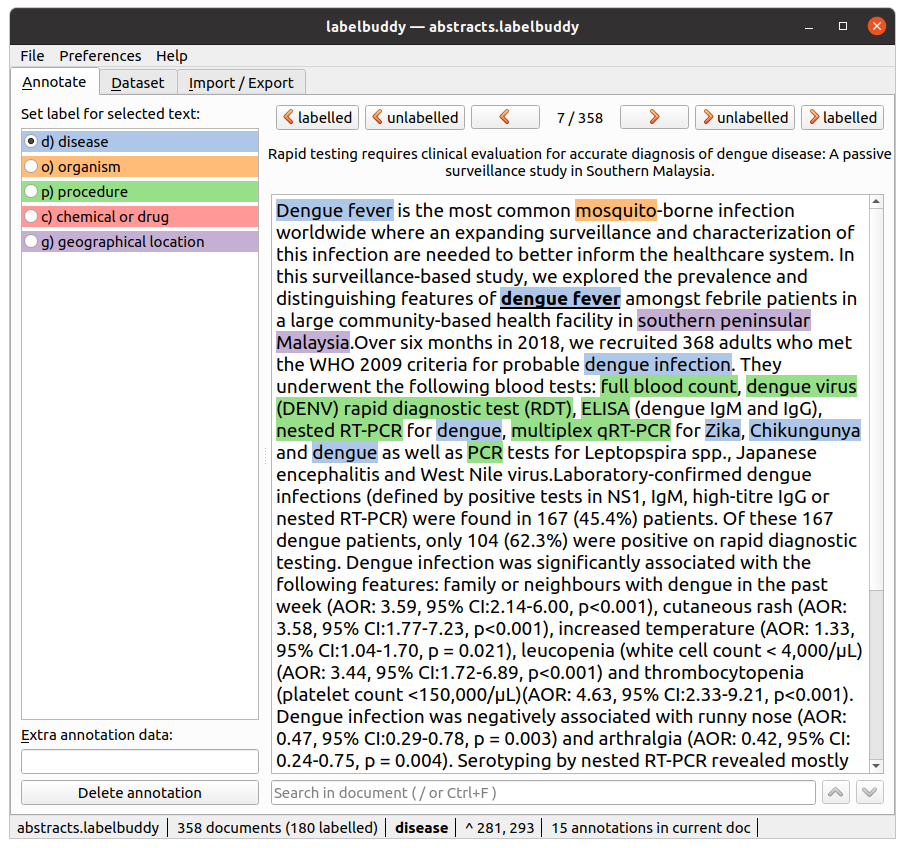
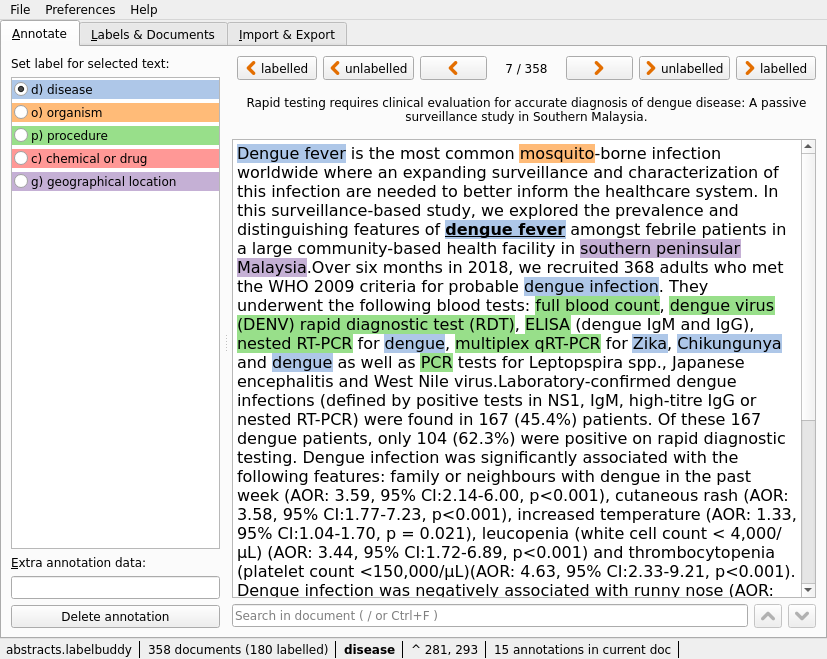
rename tabs: Dataset → Labels & Documents; Import / Export → Import & Export

diff --git a/docs/documentation.html b/docs/documentation.html
@@ -743,7 +743,7 @@ Importing and exporting data
 </table>
 </div>
 <div class="paragraph">
-<p>The labelbuddy interface is organized around three tabs: the <strong>&#8220;Import / Export&#8221;</strong> tab for importing and exporting labels, documents and annotations, the <strong>&#8220;Dataset&#8221;</strong> tab to get an overview and manage documents and labels in the database, and the <strong>&#8220;Annotate&#8221;</strong> tab is where annotations are edited.</p>
+<p>The labelbuddy interface is organized around three tabs: the <strong>&#8220;Import & Export&#8221;</strong> tab for importing and exporting labels, documents and annotations, the <strong>&#8220;Labels & Documents&#8221;</strong> tab to get an overview and manage documents and labels in the database, and the <strong>&#8220;Annotate&#8221;</strong> tab is where annotations are edited.</p>
 </div>
 <div class="paragraph">
 <p>Documents and labels can be imported into a <strong>labelbuddy</strong> database from plain text, JSON or JSONLines, as described in <a href="#formats-sec">Appendix A</a>.
@@ -760,7 +760,7 @@ Labels, documents and annotations that are already in the database are skipped i
 <div class="sect2">
 <h3 id="importing-documents-and-annotations">2.1. Importing documents (and annotations)</h3>
 <div class="paragraph">
-<p>In the <strong>&#8220;Import / Export&#8221;</strong> tab, click <b class="button">Import docs &amp; annotations</b> and select a file containing the documents you plan to annotate.
+<p>In the <strong>&#8220;Import & Export&#8221;</strong> tab, click <b class="button">Import docs &amp; annotations</b> and select a file containing the documents you plan to annotate.
 If you want try this before creating your own, you can download example documents from the <a href="https://jeromedockes.github.io/labelbuddy/labelbuddy/current/examples"><strong>labelbuddy</strong> website</a>.</p>
 </div>
 <div class="paragraph">
@@ -806,7 +806,7 @@ It is stored and bundled with the document when you export it.</p>
 <code>list_title</code>
 </td>
 <td class="hdlist2">
-<p>Displayed in the document list in the <strong>&#8220;Dataset&#8221;</strong> tab.</p>
+<p>Displayed in the document list in the <strong>&#8220;Labels & Documents&#8221;</strong> tab.</p>
 </td>
 </tr>
 </table>
@@ -840,7 +840,7 @@ The format is deduced from the filename extension.</p>
 <div class="sect2">
 <h3 id="importing-or-creating-labels">2.2. Importing or creating labels</h3>
 <div class="paragraph">
-<p>To import labels, click <b class="button">Import labels</b> in the <strong>&#8220;Import / Export&#8221;</strong> tab and select a file.
+<p>To import labels, click <b class="button">Import labels</b> in the <strong>&#8220;Import & Export&#8221;</strong> tab and select a file.
 If you want try this before creating your own labels, you can download example labels from the <a href="https://jeromedockes.github.io/labelbuddy/labelbuddy/current/examples"><strong>labelbuddy</strong> examples page</a>.</p>
 </div>
 <div class="paragraph">
@@ -851,7 +851,7 @@ The <code>shortcut_key</code> is a lower-case letter (a-z) that helps quickly <a
 <p>As for documents, the format is deduced from the filename extension when importing labels, and is described in <a href="#formats-sec">Appendix A</a>.</p>
 </div>
 <div class="paragraph">
-<p>It is also possible to manually enter a new label or to change the labels&#8217; color and shortcut key from within the GUI application, in the <strong>&#8220;Dataset&#8221;</strong> tab.</p>
+<p>It is also possible to manually enter a new label or to change the labels&#8217; color and shortcut key from within the GUI application, in the <strong>&#8220;Labels & Documents&#8221;</strong> tab.</p>
 </div>
 <div class="paragraph">
 <p>Labels can also be imported using the <a href="#command-line-interface">command line</a>, for example:</p>
@@ -862,13 +862,13 @@ The <code>shortcut_key</code> is a lower-case letter (a-z) that helps quickly <a
 </div>
 </div>
 <div class="paragraph">
-<p>In the <strong>&#8220;Dataset&#8221;</strong> tab, labels can be reordered by dragging and dropping them.</p>
+<p>In the <strong>&#8220;Labels & Documents&#8221;</strong> tab, labels can be reordered by dragging and dropping them.</p>
 </div>
 </div>
 <div class="sect2">
 <h3 id="annotating-documents">2.3. Annotating documents</h3>
 <div class="paragraph">
-<p>Once you have imported labels and documents you can see them in the <strong>&#8220;Dataset&#8221;</strong> tab.
+<p>Once you have imported labels and documents you can see them in the <strong>&#8220;Labels & Documents&#8221;</strong> tab.
 You can filter which documents are shown by the labels they have been annotated with.
 You can delete labels or documents, add labels and change the color and shortcut associated with each label.
 You can drag and drop labels to change their order.
@@ -1117,7 +1117,7 @@ As you click the gray region or press the <kbd>Space</kbd> key, each <span class
 </tbody>
 </table>
 <div class="paragraph">
-<p>Underlined letters in the GUI indicate <kbd>Alt</kbd>-key shortcuts: for example in the <strong>&#8220;Dataset&#8221;</strong> tab &#8220;<span class="underline">N</span>ew label&#8221; indicates you can jump to creating a new label by pressing <span class="keyseq"><kbd>Alt</kbd>+<kbd>N</kbd></span>.</p>
+<p>Underlined letters in the GUI indicate <kbd>Alt</kbd>-key shortcuts: for example in the <strong>&#8220;Labels & Documents&#8221;</strong> tab &#8220;<span class="underline">N</span>ew label&#8221; indicates you can jump to creating a new label by pressing <span class="keyseq"><kbd>Alt</kbd>+<kbd>N</kbd></span>.</p>
 </div>
 </div>
 </div>
@@ -1127,7 +1127,7 @@ As you click the gray region or press the <kbd>Space</kbd> key, each <span class
 <p>Once you are satisfied with your annotations you can export them in order to share them or use them in other applications.</p>
 </div>
 <div class="paragraph">
-<p>Back in the <strong>&#8220;Import / Export&#8221;</strong> tab, click <b class="button">Export docs &amp; annotations</b>.
+<p>Back in the <strong>&#8220;Import & Export&#8221;</strong> tab, click <b class="button">Export docs &amp; annotations</b>.
 You can choose to export all documents or only those that have annotations.
 You can choose to export the text of the documents or not.
 If you do not export the text, the documents can be identified from metadata you may have associated with them, or by the <a href="https://en.wikipedia.org/wiki/MD5">MD5</a> checksum of the text that is always exported.
@@ -1152,7 +1152,7 @@ See <a href="#formats-sec">Appendix A</a> for details.</p>
 <h3 id="exporting-labels">2.5. Exporting labels</h3>
 <div class="paragraph">
 <p>You may also want to export labels, especially if you created them or edited their colors or shortcut keys within <strong>labelbuddy</strong>.
-In the <strong>&#8220;Import / Export&#8221;</strong> tab, click <b class="button">Export labels</b>.
+In the <strong>&#8220;Import & Export&#8221;</strong> tab, click <b class="button">Export labels</b>.
 Here also, the <a href="#formats-sec">format</a> is deduced from the filename extension.</p>
 </div>
 <div class="paragraph">
@@ -1195,7 +1195,7 @@ The database to open can also be specified when invoking <strong>labelbuddy</str
 </div>
 </div>
 <div class="paragraph">
-<p>The path to the current database is displayed in the <strong>&#8220;Import / Export&#8221;</strong> tab.</p>
+<p>The path to the current database is displayed in the <strong>&#8220;Import & Export&#8221;</strong> tab.</p>
 </div>
 <div class="paragraph">
 <p>If you just want to give <strong>labelbuddy</strong> a try and do not have documents or labels yet, you can also select <span class="menuseq"><b class="menu">File</b>&#160;<b class="caret">&#8250;</b> <b class="menuitem">Demo</b></span> to open a temporary database pre-loaded with a few examples.</p>
@@ -1381,7 +1381,7 @@ It is stored and bundled with the document when you export it.</p>
 <code>list_title</code>
 </td>
 <td class="hdlist2">
-<p>Shown in the document list in the <strong>&#8220;Dataset&#8221;</strong> tab.</p>
+<p>Shown in the document list in the <strong>&#8220;Labels & Documents&#8221;</strong> tab.</p>
 </td>
 </tr>
 <tr>
@@ -1766,7 +1766,7 @@ For example:</p>
 </div>
 <div id="footer">
 <div id="footer-text">
-Last updated 2022-10-31 14:23:29 -0400
+Last updated 2022-12-23 08:20:21 -0300
 </div>
 </div>
 </body>

diff --git a/src/main_window.cpp b/src/main_window.cpp
@@ -44,9 +44,9 @@ LabelBuddy::LabelBuddy(QWidget* parent, const QString& databasePath,
   annotator_ = new Annotator();
   notebook_->addTab(annotator_, "&Annotate");
   datasetMenu_ = new DatasetMenu();
-  notebook_->addTab(datasetMenu_, "&Dataset");
+  notebook_->addTab(datasetMenu_, "&Labels && Documents");
   importExportMenu_ = new ImportExportMenu(&databaseCatalog_);
-  notebook_->addTab(importExportMenu_, "&Import / Export");
+  notebook_->addTab(importExportMenu_, "&Import && Export");
 
   docModel_ = new DocListModel(this);
   docModel_->setDatabase(databaseCatalog_.getCurrentDatabase());

diff --git a/src/dataset_menu.h b/src/dataset_menu.h
@@ -10,11 +10,11 @@
 #include "label_list_model.h"
 
 /// \file
-/// Implementation of the Dataset tab
+/// Implementation of the Dataset tab (note: has been renamed "Labels & Documents")
 
 namespace labelbuddy {
 
-/// Implementation of the Dataset tab
+/// Implementation of the Dataset tab (note: has been renamed "Labels & Documents")
 class DatasetMenu : public QSplitter {
 
   Q_OBJECT

diff --git a/src/import_export_menu.h b/src/import_export_menu.h
@@ -9,11 +9,11 @@
 #include "database.h"
 
 /// \file
-/// Implementation of the Import / Export tab
+/// Implementation of the Import & Export tab
 
 namespace labelbuddy {
 
-/// Implementation of the Import / Export tab
+/// Implementation of the Import & Export tab
 class ImportExportMenu : public QWidget {
 
   Q_OBJECT
